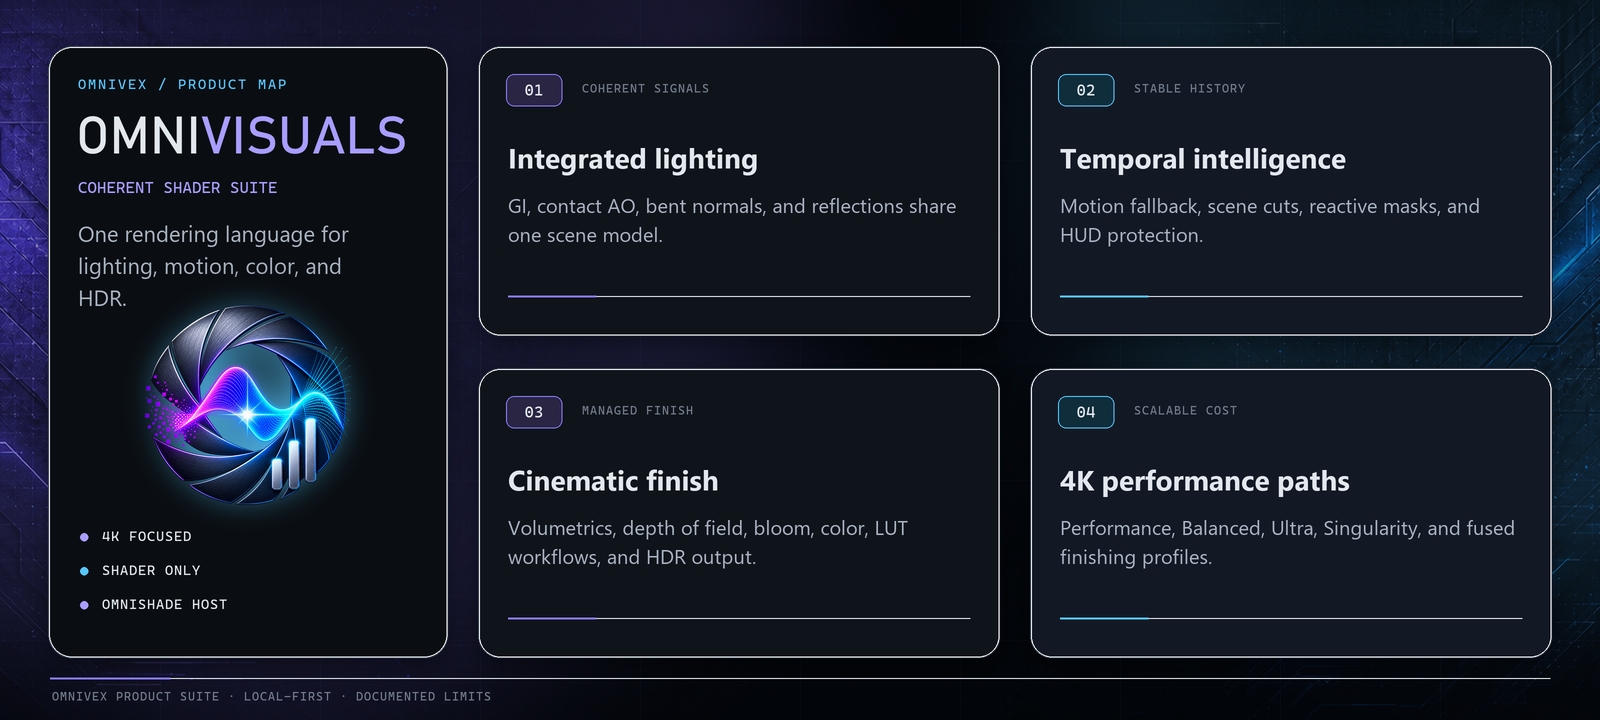
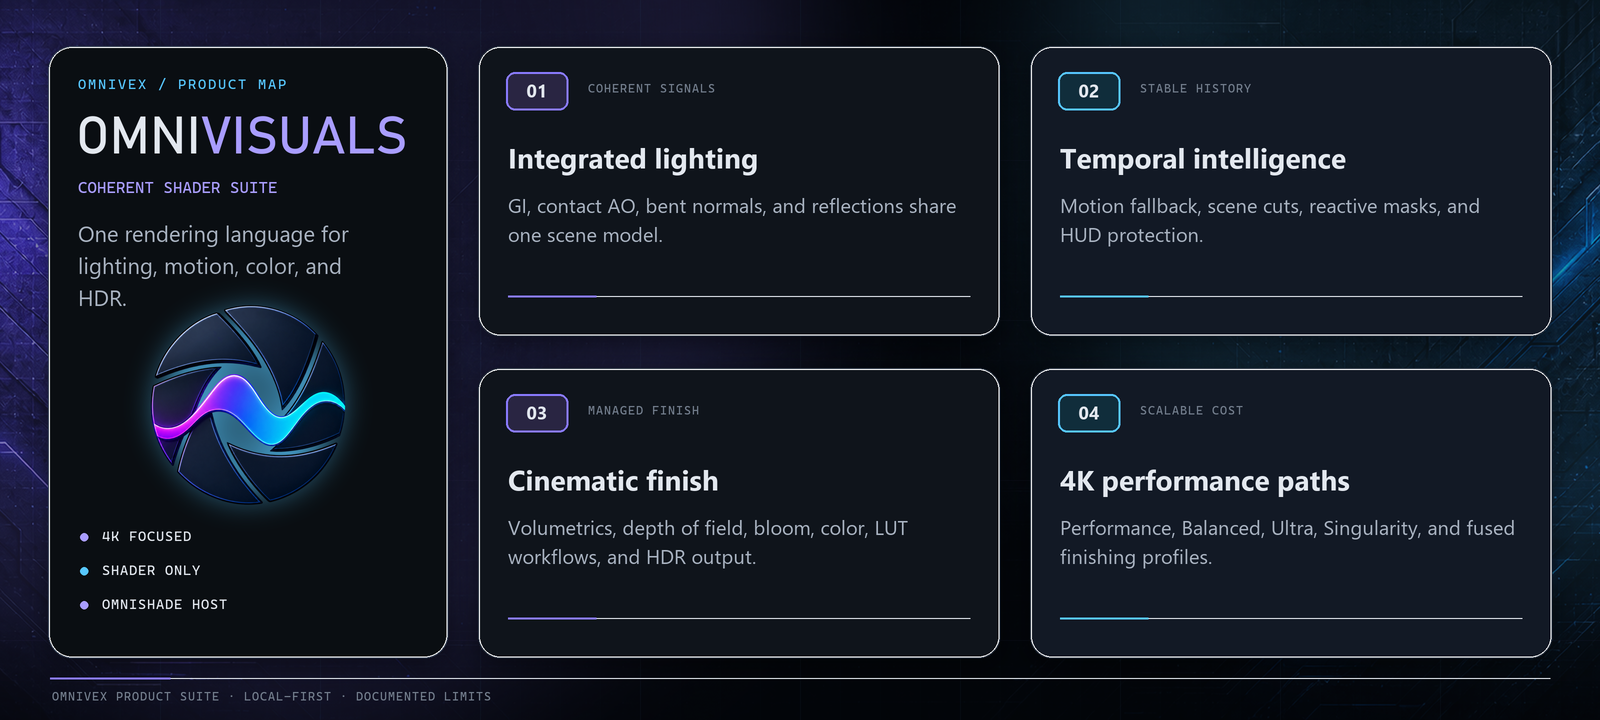
fix: refresh presentation symbols and step numbers

diff --git a/README.md b/README.md
@@ -45,7 +45,7 @@
 
 OmniVisuals is an original clean-room shader suite designed specifically for OmniShade. Its effects share depth, motion, scene-cut, HDR and temporal conventions so the stack behaves as one pipeline instead of a folder of unrelated filters.
 
-![OmniVisuals capability map covering integrated lighting, temporal intelligence, cinematic finishing, and scalable 4K performance paths](assets/presentation/capabilities.png?v=20260823-centered-numbers-v2)
+![OmniVisuals capability map covering integrated lighting, temporal intelligence, cinematic finishing, and scalable 4K performance paths](assets/presentation/capabilities.png?v=20260825-symbol-number-v4)
 
 ### Highlights
 
